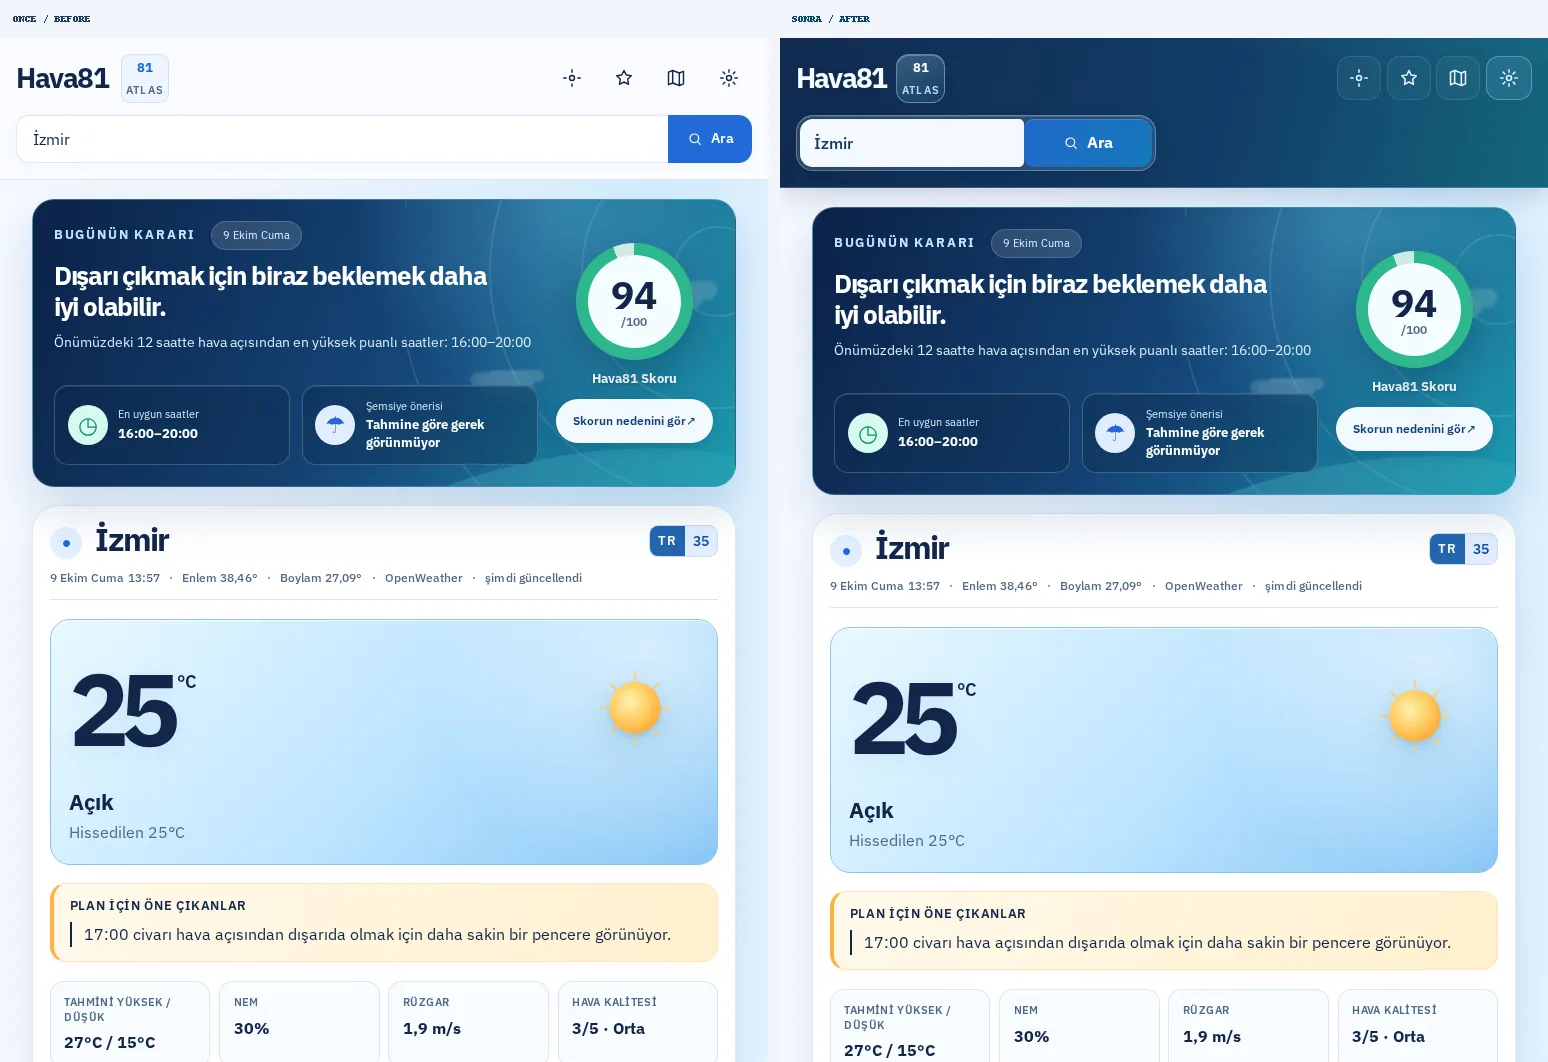
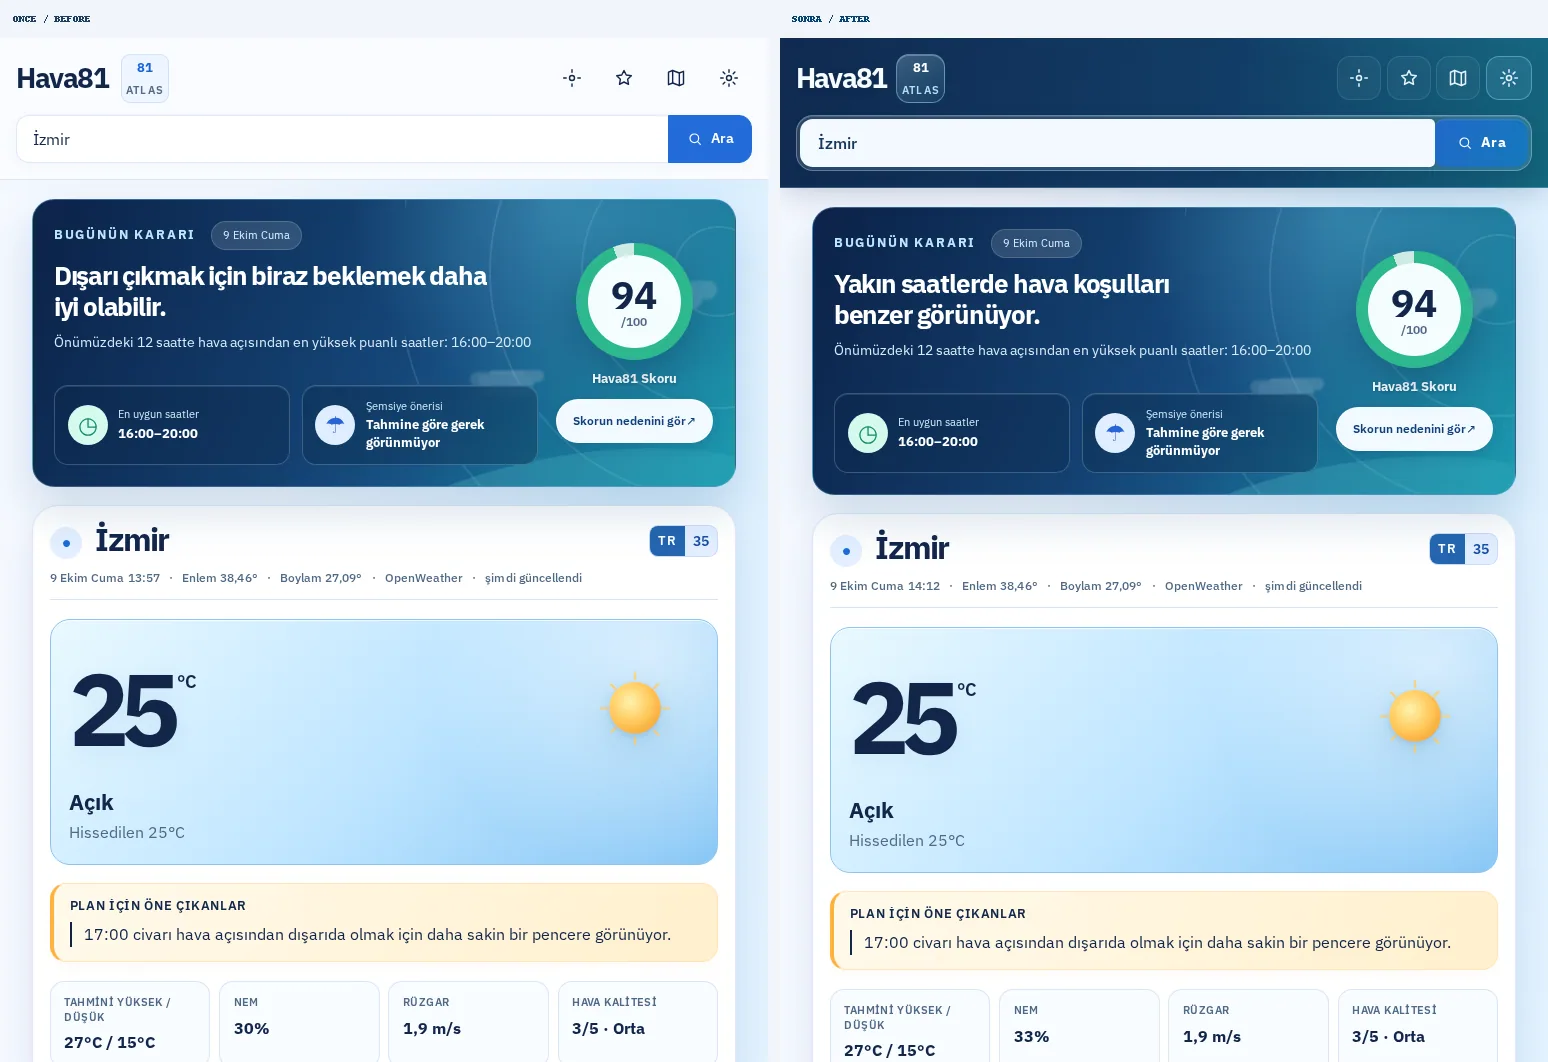
fix(ui): preserve full-width tablet search and dark theme test contract

Changed region(s): [[0.6512, 0.0932, 0.9922, 0.1864], [0.5271, 0.2486, 0.8372, 0.3107], [0.5271, 0.1243, 0.5581, 0.1554]]

diff --git a/src/styles/NavigationVisualPolish.css b/src/styles/NavigationVisualPolish.css
@@ -234,7 +234,7 @@
    submit button next to the brand + quick actions. Place the whole search
    on its own short row, keeping it to a readable 360px and leaving quick
    actions fully clickable in row one. Normal-size desktops are untouched. */
-@media (min-width: 48rem) {
+@media (min-width: 64rem) {
   @container (max-width: 48em) {
     .app .atlas-header__inner {
       grid-template-columns: auto minmax(0, 1fr);
@@ -310,5 +310,13 @@
   .app .search-bar__submit { min-height: 46px; height: 48px; }
   .app .search-bar__suggestions {
     max-height: min(124px, calc(100dvh - 184px));
+  }
+}
+
+/* At 768–1023px the two-row tablet header must use the *full* search row.
+   Override the older 300px tablet cap, not only the new enlarged-text rule. */
+@media (min-width: 48rem) and (max-width: 63.99rem) {
+  .app .atlas-header__search {
+    max-width: none;
   }
 }

diff --git a/e2e/smoke.spec.ts b/e2e/smoke.spec.ts
@@ -4102,7 +4102,7 @@ test('theme choice keeps browser chrome color in sync', async ({ page }, testInf
   expect(actionColors).toEqual({
     paper: '#15373c',
     aegean: '#78bac0',
-    searchColor: 'rgb(23, 51, 66)',
+    searchColor: 'rgb(255, 255, 255)',
   });
 });
 

diff --git a/docs/visual-reviews/navigation-20261009/README.md b/docs/visual-reviews/navigation-20261009/README.md
@@ -44,6 +44,7 @@ Playwright çekimini yenilemek için `node scripts/capture-navigation-visual.mjs
 - **Playwright ekran/tema taraması:** **10 / 10** (önce + sonra), HTTP 200, öneriler görünür, JavaScript hatası ve yatay taşma yok.
 - **Playwright erişilebilirlik:** şehir önerileri, kısa masaüstü ve yatay telefon, %200 metin büyütme, ayarlar düğmesinin erişilebilirliği, zorlanmış kontrast, odak ve mobil aksiyonlar.
 - **Git diff --check:** Başarılı.
+- **GitHub ilk Browser flows taramasında bulunan 2 stil regresyonu:** 768 px tablette arama genişliği düzeltildi; yeni koyu tema düğmesinin beyaz metni için görsel E2E beklentisi güncellendi. Üç ilgili test yerelde geçti. Tablet karşılaştırma görselleri düzeltme sonrası yeniden çekildi.
 - **GitHub CI/CD ve CodeQL:** PR açıldıktan sonra doğrulanacak. **Tamamı başarılı olmadan squash merge veya dağıtım yapılmayacak.**
 
 **Koruma:** `/home/ubuntu/Hava81-latest` içindeki üç commit edilmemiş dosya silinmedi, değiştirilmedi veya resetlenmedi. Geliştirme ayrı worktree'de yapıldı.
